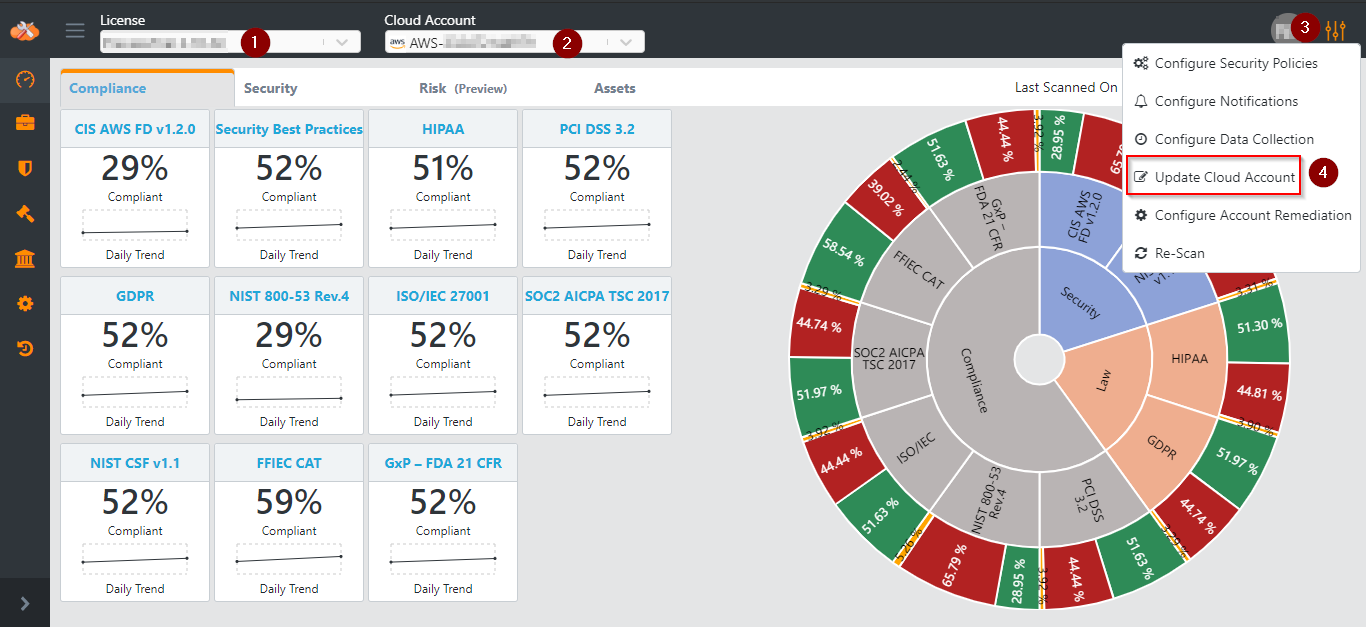
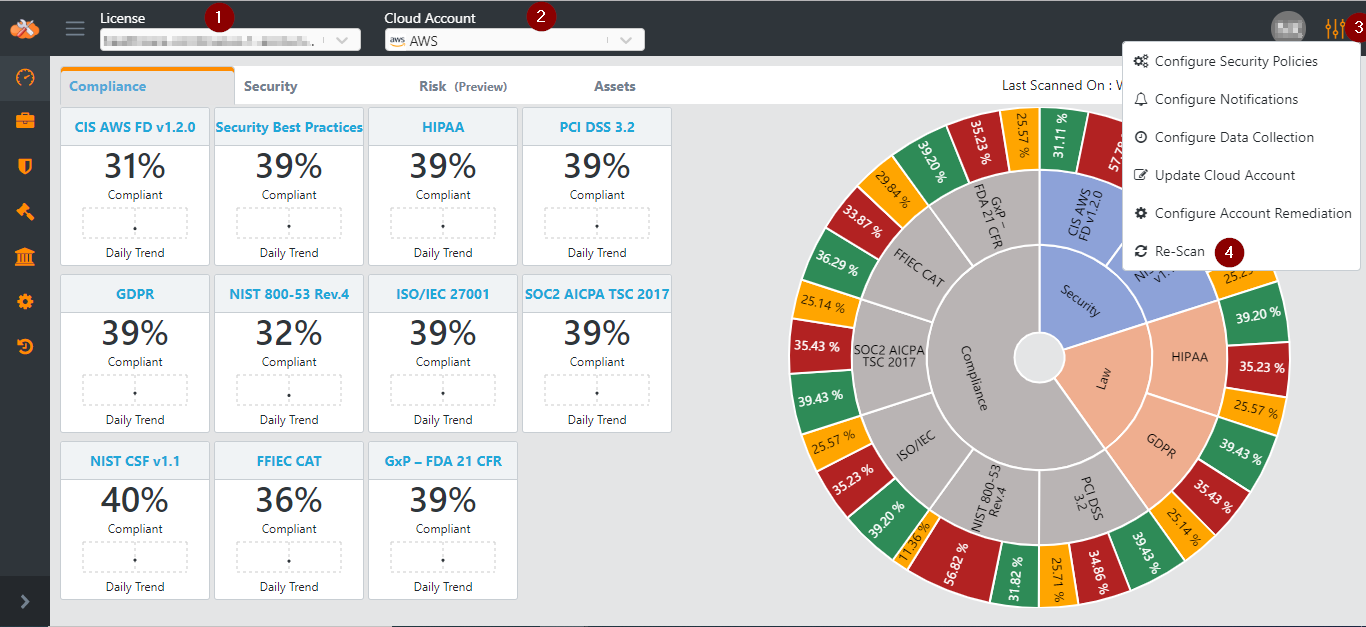
Task 12133 : Updated AWS account onboarding

diff --git a/docs/onboardingGuide/amazonWebServiceAccounts.md b/docs/onboardingGuide/amazonWebServiceAccounts.md
@@ -67,8 +67,7 @@ Automation script can be used for creation of a role to mark Cloudneeti's accoun
 #### Workstation readiness
 
 | Activity                                                                      | Description                                              |
-|-------------------------------------------------------------------------------|----------------------------------------------------------|
-| **Workstation:** Ensure you have the latest PowerShell version (v5 and above) | Verify PowerShell version by running the \$PSVersionTable.PSVersion command on the workstation where you will execute commands to add a role. If PowerShell version is lower than 5, then follow this link for installation of a later version: [Download Link](https://docs.microsoft.com/en-us/powershell/scripting/install/installing-windows-powershell?view=powershell-6).                                                                                          |
+|-------------------------------------------------------------------------------|----------------------------------------------------------|                                                
 | **Workstation:** Install AWS Command Line Interface                           | To install AWS cli follow [link](https://docs.aws.amazon.com/cli/latest/userguide/install-windows.html) **AWS Command Line** Interface (CLI) is a unified tool to manage your AWS services.             |                                                      |
 |**Workstation:** Download script provision-datacollection-role.yml| To download provision-datacollection-role.yml script follow [link](https://raw.githubusercontent.com/Cloudneeti/docs_cloudneeti/master/scripts/provision-datacollection-role.yml) |
 
@@ -159,13 +158,12 @@ Security audit role created during onboarding of a specific AWS account should b
 
 2.  Go to **IAM in Services**
 
-3.  Click on **Roles**
+3.  Click on **Roles** (1)
 
-4.  Select
-    [Cloudneeti-SecurityAudit](https://console.aws.amazon.com/iam/home?region=us-east-1#/roles/Cloudneeti-SecurityAudit)
+4.  Select role created for Cloudneeti's AWS account while onboarding AWS account (2)
 
-5.  Click on **Delete** to remove
-    [Cloudneeti-SecurityAudit](https://console.aws.amazon.com/iam/home?region=us-east-1#/roles/Cloudneeti-SecurityAudit)
+5.  Click on **Delete** to remove the role (3)
+   
 	![AWS Offboarding](.././images/amazonWebServiceAccounts/AWS_Offboarding.png#thumbnail)
 
 ### Delete cloud account in Cloudneeti application 

diff --git a/docs/onboardingGuide/awsAdditionalSecurityConfiguration.md b/docs/onboardingGuide/awsAdditionalSecurityConfiguration.md
@@ -7,7 +7,7 @@ within timeframe mentioned below
 
 | **Cloudneeti Product**                   | **Start date** | **End date** |
 |------------------------------------------|-----------------------------|----------------------------------------|
-| [Trial](https://trial.cloudneeti.com)    | 7 October 2019              | 21 October 2019                        |
+| [Trial](https://trial.cloudneeti.com)    | 9 October 2019              | 23 October 2019                        |
 | [Production](https://app.cloudneeti.com) | 14 October 2019             | 30 October 2019                        |
 
 To ensures a smooth transition, please follow below two steps for each AWS
@@ -77,12 +77,7 @@ Login to [AWS Console](https://aws.amazon.com/console/) with AWS **Administrato
                 ] 
             } 
 
-
-### **1.2 (Optional) Create a new role with external id**
-
-Please refer [step 1.1](https://cloudneeti.github.io/Cloudneeti_SaaS_Docs/onboardingGuide/amazonWebServiceAccounts/#11-manual) in onboarding document.
-
-**Step 2 Verify/update role name for Cloud Account**
+**Step 2 Re-scan Cloud Account to verify successful update to role**
 ----------------------------------------------------
 
 Login to Cloudneeti portal with License Admin role
@@ -91,12 +86,10 @@ Login to Cloudneeti portal with License Admin role
 
 2.  Click **Configure** (3)
 
-3.  Select **Update Cloud Account** (4)
+3.  Select **Re-scan** (4)
 
     ![Update Account](.././images/updateAWSConfiguration/UpdateCloudAccount.png#thumbnail_1)
 
-4.  Verify or update AWS Role Name
+4.  It will take sometime to complete the data scan. Verify that last scan time is updated. Please contact support@cloudneeti.com in case of any issues.
 
-5.  **Save**
-
-    ![Verify role name](.././images/updateAWSConfiguration/verifyRoleName.png#thumbnail_1)
+    ![Update Account](.././images/updateAWSConfiguration/verifyUpdatedRole.png#thumbnail_1)

diff --git a/docs/azureMarketplace/estimatePricing.md b/docs/azureMarketplace/estimatePricing.md
@@ -1,0 +1,64 @@
+Estimate Pricing
+=====================
+
+Subscription Fee 
+----------------------
+
+Cloudneeti product subscription fees are based on a total number of resources in
+onboarded cloud accounts (Azure subscription, AWS accounts) and number of users
+in Office 365 subscription. Please follow the steps below to collect resource
+and user count.
+
+Resources in Azure subscription
+-------------------------------
+
+Please follow the below steps to determine the total number of resources within
+an Azure subscription.
+
+Login to [Azure portal](https://portal.azure.com) as Subscription Reader/Owner.
+
+1.  Click on **Subscriptions** (1)
+
+2.  Select desired subscription
+
+3.  Click on **Resources** (2) to get list of all resources
+
+4.  Total resource count is mentioned on the upper left of the screen
+    highlighted below
+
+    ![Azure Resources](.././images/Subscribe/Azure_Resources.png#thumbnail)
+
+Resources in AWS account
+------------------------
+
+Please the follow below steps to determine the total number of resources within
+an AWS account.
+
+Login to [AWS console](https://console.aws.amazon.com) with security audit role
+
+1.  Click on **Resource Group**
+
+2.  Click on **Tag Editor**
+
+3.  Select **All regions** in **Regions** dropdown menu
+
+4.  Select **All resource types** in **Resource Type** dropdown menu
+
+5.  Click on **Search resources**
+
+	![AWS Resources](.././images/Subscribe/AWS_Resources.png#thumbnail)
+
+6.  Wait until all resources are loaded.
+
+    ![AWS Resources](.././images/Subscribe/Loading_Resources.png#thumbnail)
+
+7.  Resource count will appear next to **Resource search results**
+
+    ![Azure Resources](.././images/Subscribe/Resource_Search_Result.png#thumbnail)
+
+
+Users in Office 365
+-------------------------
+
+Please log into the Office 365 portal to look up the number of users in your
+Office 365 subscription.

diff --git a/docs/gettingStarted/subscribe.md b/docs/gettingStarted/subscribe.md
@@ -21,50 +21,3 @@ notification about being added in the Cloudneeti application.
 
 When customers procure Cloudneeti cloud service on Azure Marketplace, the
 License and License Admin are created automatically.
-
-Resources in Azure subscription
--------------------------------
-
-Please follow the below steps to determine the total number of resources within
-an Azure subscription.
-
-Login to [Azure portal](https://portal.azure.com) as Subscription Reader/Owner.
-
-1.  Click on **Subscriptions** (1)
-
-2.  Select desired subscription
-
-3.  Click on **Resources** (2) to get list of all resources
-
-4.  Total resource count is mentioned on the upper left of the screen
-    highlighted below
-
-    ![Azure Resources](.././images/Subscribe/Azure_Resources.png#thumbnail)
-
-Resources in AWS account
-------------------------
-
-Please the follow below steps to determine the total number of resources within
-an AWS account.
-
-Login to [AWS console](https://console.aws.amazon.com) with security audit role
-
-1.  Click on **Resource Group**
-
-2.  Click on **Tag Editor**
-
-3.  Select **All regions** in **Regions** dropdown menu
-
-4.  Select **All resource types** in **Resource Type** dropdown menu
-
-5.  Click on **Search resources**
-
-	![AWS Resources](.././images/Subscribe/AWS_Resources.png#thumbnail)
-
-6.  Wait until all resources are loaded.
-
-    ![AWS Resources](.././images/Subscribe/Loading_Resources.png#thumbnail)
-
-7.  Resource count will appear next to **Resource search results**
-
-    ![Azure Resources](.././images/Subscribe/Resource_Search_Result.png#thumbnail)
